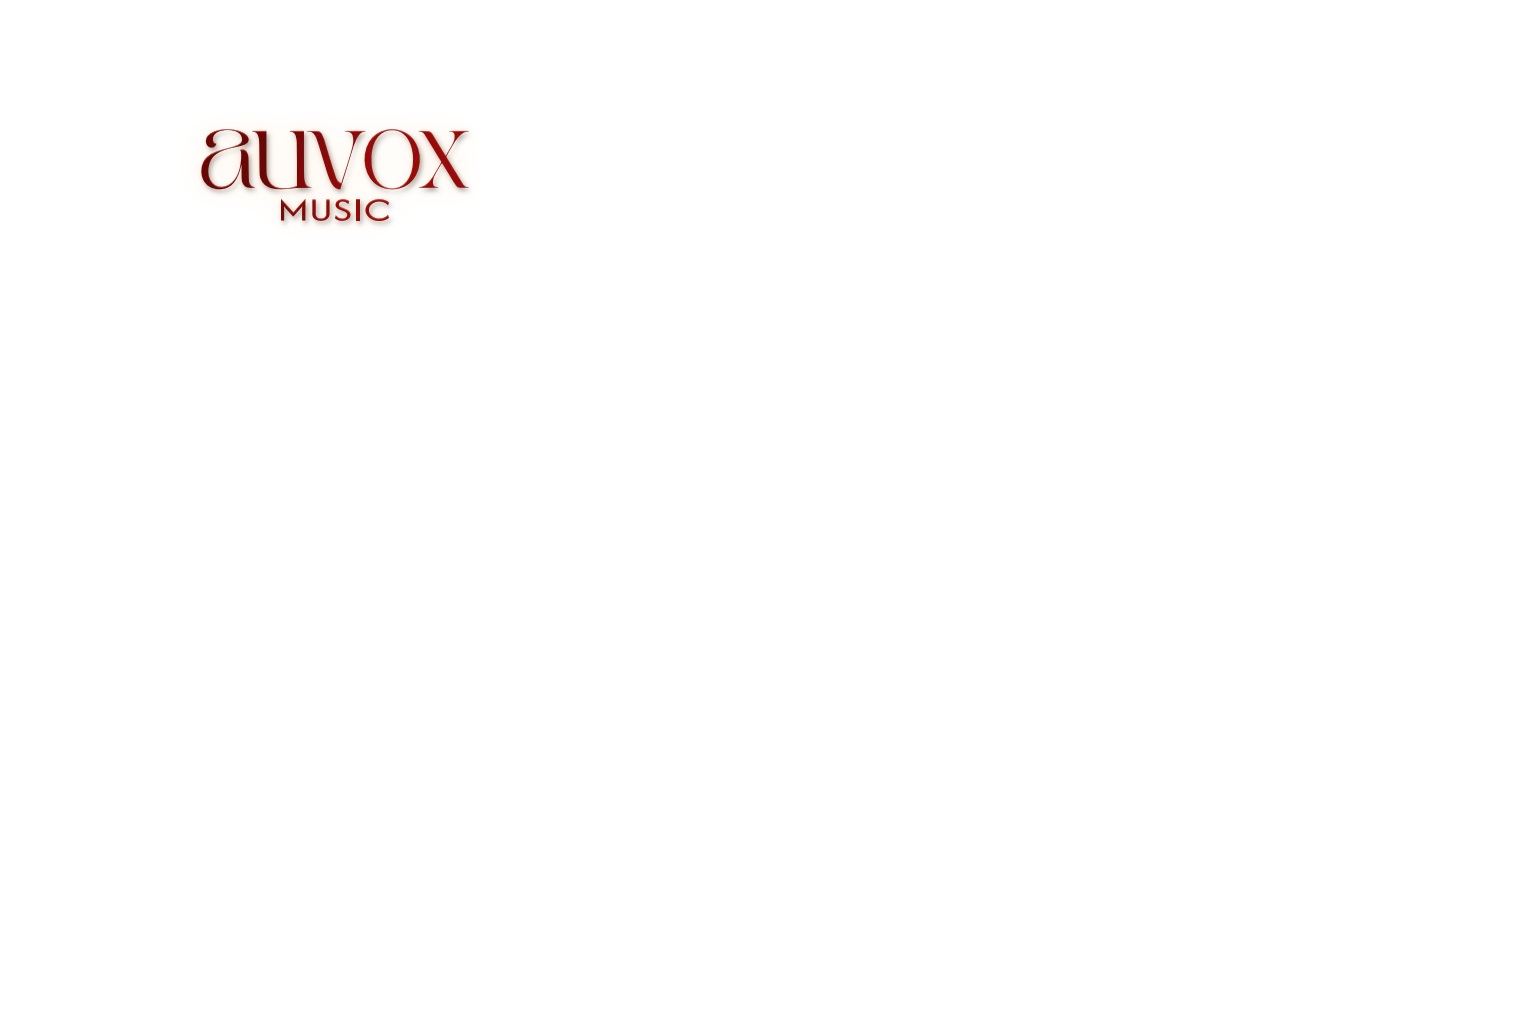
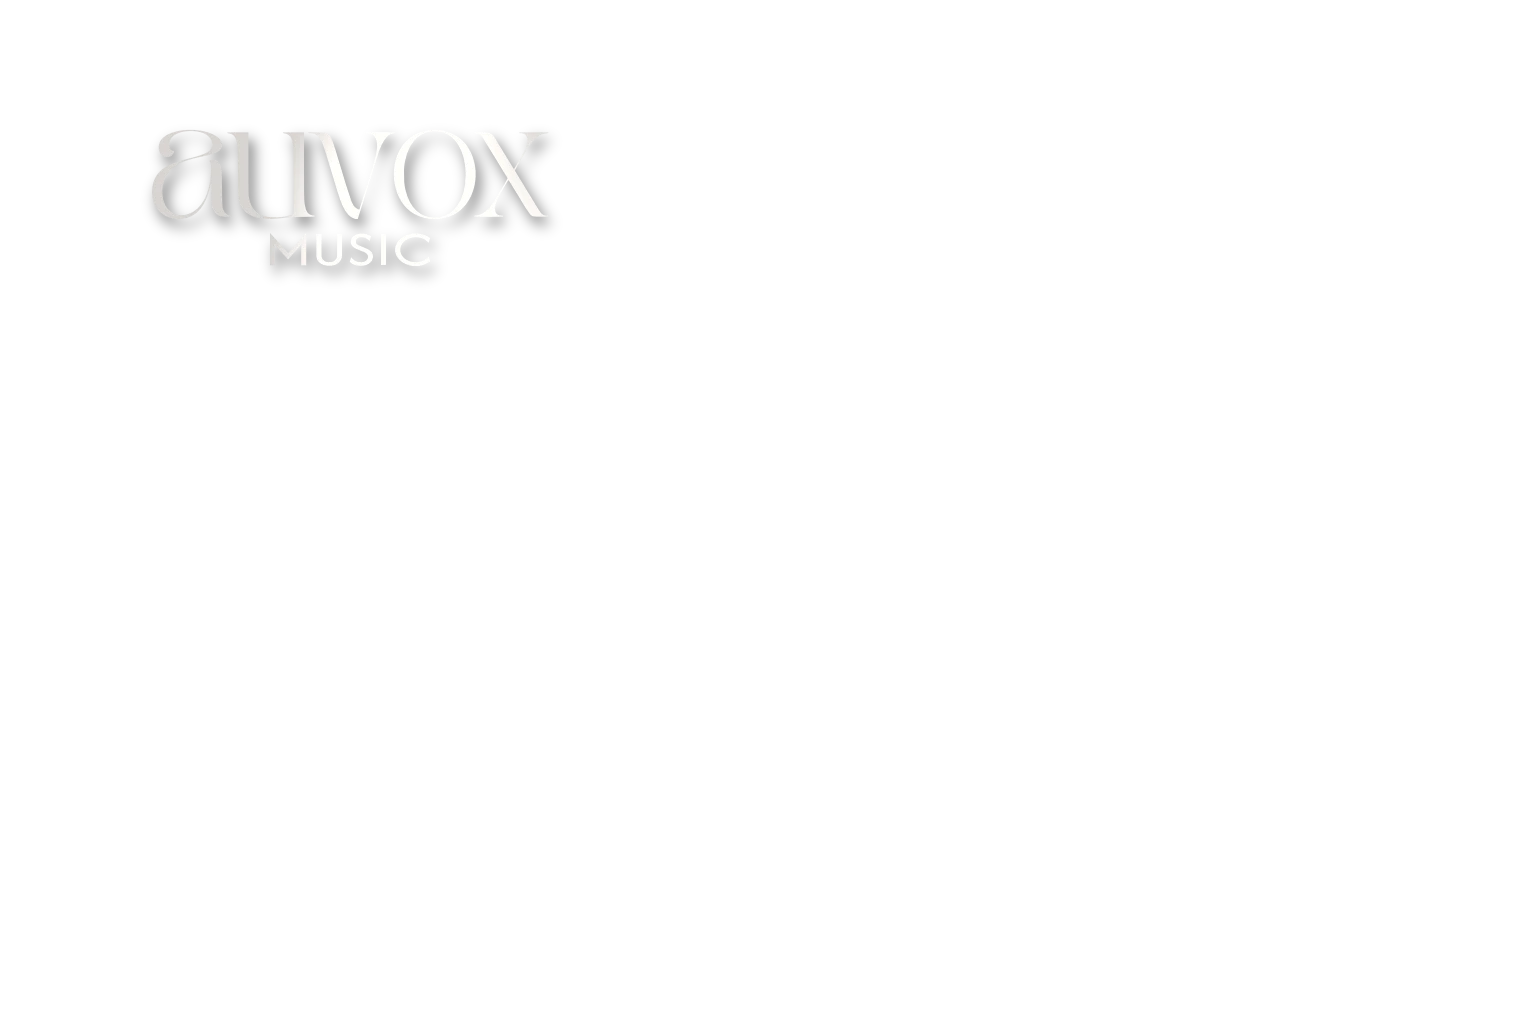
Splash: bold cream title instead of the red sign; phone TAP no longer dodges
- The lockup on the wall is now large cream type with a soft drop shadow (Shopify
  Editions reference); the preloader lands it in cream and a glitter shimmer sweeps
  the letters on arrival
- Phone TAP: the per-frame transform was fighting a CSS transition, so the button
  slid away from the cursor; it now tracks exactly and only eases while the pointer
  is near, with a larger hit area

Changed region(s): [[0.0938, 0.125, 0.375, 0.2812]]

diff --git a/src/components/sections/Session/Session.tsx b/src/components/sections/Session/Session.tsx
@@ -19,6 +19,7 @@ export default function Session() {
   const scrollHint = useRef<HTMLDivElement>(null);
   const tapHint = useRef<HTMLDivElement>(null);
   const phoneHint = useRef<HTMLButtonElement>(null);
+  const held = useRef<{ x: number; y: number } | null>(null);
   const done = usePreloaderStore((s) => s.done);
   const [muted, setMutedState] = useState(false);
   useEffect(() => onMuteChange(setMutedState), []);
@@ -48,8 +49,21 @@ export default function Session() {
       window.addEventListener("resize", onResize);
       const tick = () => {
         if (phoneHint.current) {
+          // Hold still once the pointer is close: the room's pan must not move the target away from the hand.
           const { x, y } = session.phoneScreen;
-          phoneHint.current.style.transform = `translate(${x}px, ${y}px) translate(-50%, -50%)`;
+          const px = (session.mouse.x + 1) * 0.5 * window.innerWidth;
+          const py = (1 - session.mouse.y) * 0.5 * window.innerHeight;
+          const near = Math.hypot(px - x, py - y) < 140;
+          const h = held.current ?? (held.current = { x, y });
+          // far from the target, or the pointer away: track exactly. Pointer near: ease, so it never dodges.
+          if (!near || Math.hypot(h.x - x, h.y - y) > 60) {
+            h.x = x;
+            h.y = y;
+          } else {
+            h.x += (x - h.x) * 0.04;
+            h.y += (y - h.y) * 0.04;
+          }
+          phoneHint.current.style.transform = `translate(${h.x}px, ${h.y}px) translate(-50%, -50%)`;
           const painted = gsap.utils.clamp(0, 1, (session.reveal - 0.75) / 0.25);
           const show = session.phoneHint * painted * (1 - gsap.utils.clamp(0, 1, session.progress / 0.12));
           phoneHint.current.style.opacity = String(show);
@@ -86,6 +100,7 @@ export default function Session() {
     gsap.set(session.lights, { red: 1, lamp: 1, ambient: 1 });
     const tl = gsap.timeline({ delay: 0.05 });
     tl.fromTo(session, { sign: 0 }, { sign: 1, duration: 0.4, ease: "power1.inOut" }, 0)
+      .fromTo(session, { signShimmer: 0 }, { signShimmer: 1, duration: 1.3, ease: "power1.inOut" }, 0.25)
       // the portal opens out of the phone the moment the logo lands — no hold, one continuous move
       .to(session, { reveal: 1, duration: 3.4, ease: "power2.inOut" }, 0)
       .to(session, { bloom: 1, duration: 0.4, ease: "power2.out" }, 3.0)
@@ -124,10 +139,12 @@ export default function Session() {
         ref={phoneHint}
         onClick={tapPhone}
         aria-label="Open the conversation on the phone"
-        className="tap-ring absolute top-0 left-0 z-10 flex h-12 w-12 items-center justify-center rounded-full border border-tan bg-red text-pearl shadow-[0_0_30px_rgba(133,9,9,0.55)] transition-transform hover:scale-110"
+        className="group absolute top-0 left-0 z-10 flex h-20 w-20 items-center justify-center rounded-full"
         style={{ opacity: 0, pointerEvents: "none" }}
       >
-        <span className="text-[9px] font-semibold tracking-[0.3em]">TAP</span>
+        <span className="tap-ring relative flex h-12 w-12 items-center justify-center rounded-full border border-tan bg-red text-pearl shadow-[0_0_30px_rgba(133,9,9,0.55)] transition-transform duration-200 group-hover:scale-110">
+          <span className="text-[9px] font-semibold tracking-[0.3em]">TAP</span>
+        </span>
       </button>
 
       <div

diff --git a/src/components/sections/Session/PhotoStudio.tsx b/src/components/sections/Session/PhotoStudio.tsx
@@ -95,7 +95,7 @@ const FRAG = /* glsl */ `
   uniform vec2 uParallax, uFocus, uChest, uPhone, uPointer;
   uniform float uZoom, uParallaxScale, uDepthZoom, uBreath, uDepthFlat, uDepthMix, uShift;
   uniform vec3 uLights;      // red, lamp, ambient
-  uniform float uAudio, uFlicker, uTime, uGrain, uVignette, uFade, uPhoneGlow, uReveal, uBloom;
+  uniform float uAudio, uFlicker, uTime, uGrain, uVignette, uFade, uPhoneGlow, uReveal, uBloom, uShimmer;
   varying vec2 vUv;
 
   const vec2 TEXEL = vec2(1.0 / 1536.0, 1.0 / 1024.0);
@@ -277,6 +277,15 @@ const FRAG = /* glsl */ `
       col = outc;
     }
 
+    // a diagonal sweep of light with glitter, used once when the sign lands
+    if (uShimmer > 0.001 && uShimmer < 0.999) {
+      vec2 scr = vUv * ASPECT;
+      float pos = vUv.x + vUv.y * 0.6 - (uShimmer * 2.2 - 0.4);
+      float band = exp(-pos * pos * 60.0);
+      float gl = glitter(scr, vec2(0.7, 0.7), band);
+      col += vec3(1.0, 0.98, 0.95) * (band * 0.8 + gl * band * 2.0) * alpha;
+    }
+
     float n2 = fract(sin(dot(vUv * 913.0 + uTime, vec2(12.9898, 78.233))) * 43758.5453);
     col += (n2 - 0.5) * uGrain;
     float v = smoothstep(1.25, 0.3, distance(vUv, vec2(0.5)) * 1.35);
@@ -320,6 +329,7 @@ function makeUniforms(t: PlateTextures, focus: THREE.Vector2, hasAlpha: boolean)
     uReveal: { value: 0 },
     uBloom: { value: 0 },
     uShift: { value: 0 },
+    uShimmer: { value: 0 },
     uPointer: { value: new THREE.Vector2(0.5, 0.5) },
   };
 }
@@ -434,6 +444,7 @@ function Studio() {
           u.uLights.value.set(0, 0, 1);
           u.uPhoneGlow.value = 0;
           u.uFade.value = session.sign;
+          u.uShimmer.value = session.signShimmer;
         }}
       />
       <Strings />

diff --git a/src/components/sections/Session/state.ts b/src/components/sections/Session/state.ts
@@ -25,6 +25,8 @@ export const session = {
   focus: 0,
   /** 0–1, the wall sign; it appears when the preloader's logo lands on the wall */
   sign: 0,
+  /** 0–1, one glitter sweep across the sign's letters right after it lands */
+  signShimmer: 0,
   /** 0–1, the ink wipe: 0 = the whole studio is a pencil sketch, 1 = fully painted (tweened by GSAP) */
   reveal: 0,
   /** 0–1, a warm LED bloom right after the wipe lands */
@@ -69,7 +71,7 @@ export const PLATE = { w: 1536, h: 1024 };
 /** Image x (0–1) kept in view when a narrow screen crops the plate */
 export const HERO_CENTER_X = 0.5;
 /** Wall sign on the hero/clean plate, in plate pixels: the "auvox" wordmark box */
-export const SIGN_WORDMARK = { x: 200, y: 128, w: 270, h: 63 };
+export const SIGN_WORDMARK = { x: 150, y: 128, w: 400, h: 94 };
 /** Phone screen centre on the hero plate, in plate pixels */
 export const HERO_PHONE = { x: 850, y: 428 };
 

diff --git a/src/components/preloader/Preloader.tsx b/src/components/preloader/Preloader.tsx
@@ -13,7 +13,6 @@ const ONCE_PER_SESSION = false;
 const SESSION_KEY = "auvox:preloader-seen";
 
 const TAN = "#e7b47e";
-const RED = "#850909";
 const PEARL = "#f1ede9";
 const BLACK = "#000000";
 
@@ -256,8 +255,6 @@ export default function Preloader() {
             };
           };
           gsap.set(stage, { transformOrigin: `${(W * unit) / 2}px ${(WORDMARK.height * unit) / 2}px` });
-          // the sign on the wall is brand red, so the lockup takes that colour on the way
-          gsap.to(stage, { color: RED, duration: 1.1, ease: "power2.inOut", delay: 0.15 });
           const flight = { t: 0 };
           gsap.to(flight, {
             t: 1,

diff --git a/scripts/sign.py b/scripts/sign.py
@@ -163,7 +163,7 @@ def resign(src: Path, protect: np.ndarray | None = None) -> tuple[int, int, int,
 
 
 # ---- v2 room (client feedback 2026-10-09): light greige wall, sign on the bare upper-left wall ----
-V2_X, V2_W, V2_CY = 200, 270, 160      # lockup left edge, lockup width, wordmark centre (plate px)
+V2_X, V2_W, V2_CY = 150, 400, 175      # lockup left edge, lockup width, wordmark centre (plate px)
 RED = np.array([133, 9, 9], dtype=np.float32)
 HALO = np.array([255, 196, 130], dtype=np.float32)
 
@@ -179,16 +179,14 @@ def place_backlit_sign(src: Path) -> tuple[int, int, int, int]:
     a = np.zeros((H, W), np.float32)
     a[ty : ty + lh, tx : tx + lw] = np.asarray(alpha_img).astype(np.float32) / 255.0
 
-    # letters: brand red, shaded a touch by the wall's own light falloff
+    # letters: bold cream type, a touch of the wall's light falloff so it belongs to the room
     local = cv2.GaussianBlur(plate.mean(axis=2), (0, 0), 30)
-    shade = np.clip(local / max(local[ty : ty + lh, tx : tx + lw].mean(), 1), 0.8, 1.15)[..., None]
-    letters = RED[None, None, :] * shade
-    # halo: the letters stand off the wall with a warm LED behind them, like the slat panels
-    halo = cv2.GaussianBlur(a, (0, 0), 16) * 0.55 + cv2.GaussianBlur(a, (0, 0), 5) * 0.35
-    shadow = shift(cv2.GaussianBlur(a, (0, 0), 2.5), 3, 2) * 0.35
-    # a hair of thickness: the top edge of each letter catches the spots
-    rim = np.clip(a - shift(a, 1, 0), 0, 1) * 0.9
-    letters = letters * (1 - rim[..., None]) + np.array([205, 70, 60], np.float32)[None, None, :] * rim[..., None]
+    shade = np.clip(local / max(local[ty : ty + lh, tx : tx + lw].mean(), 1), 0.9, 1.08)[..., None]
+    letters = CREAM[None, None, :] * shade
+    # no halo — this reads as typography over the scene, not a lit sign
+    halo = np.zeros_like(a)
+    # a soft drop shadow lifts it off the wall
+    shadow = shift(cv2.GaussianBlur(a, (0, 0), 7.0), 8, 5) * 0.55
 
     # composite as one RGBA layer, back to front: halo (warm light) → shadow → letters
     rgb = np.zeros((H, W, 3), np.float32)
